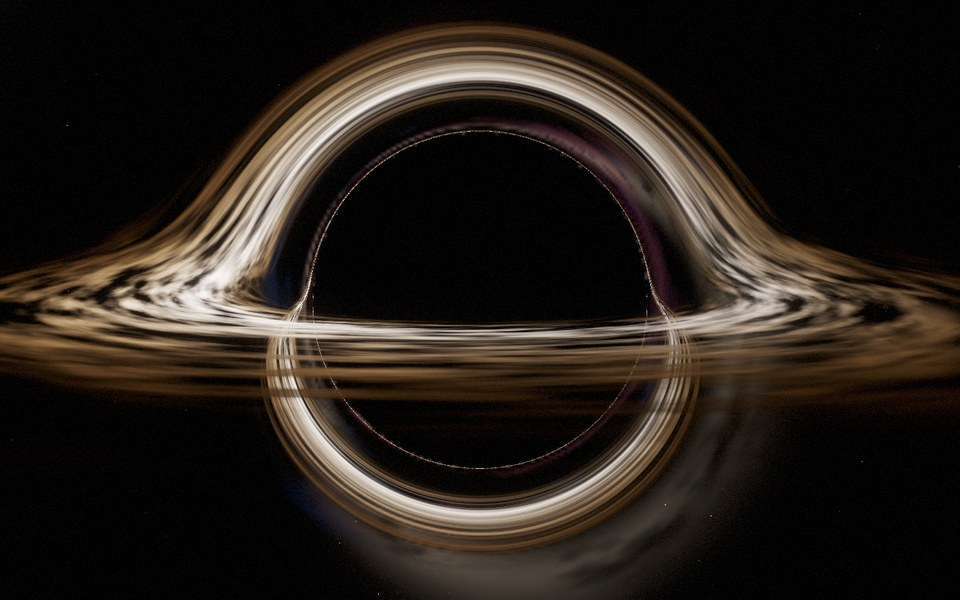
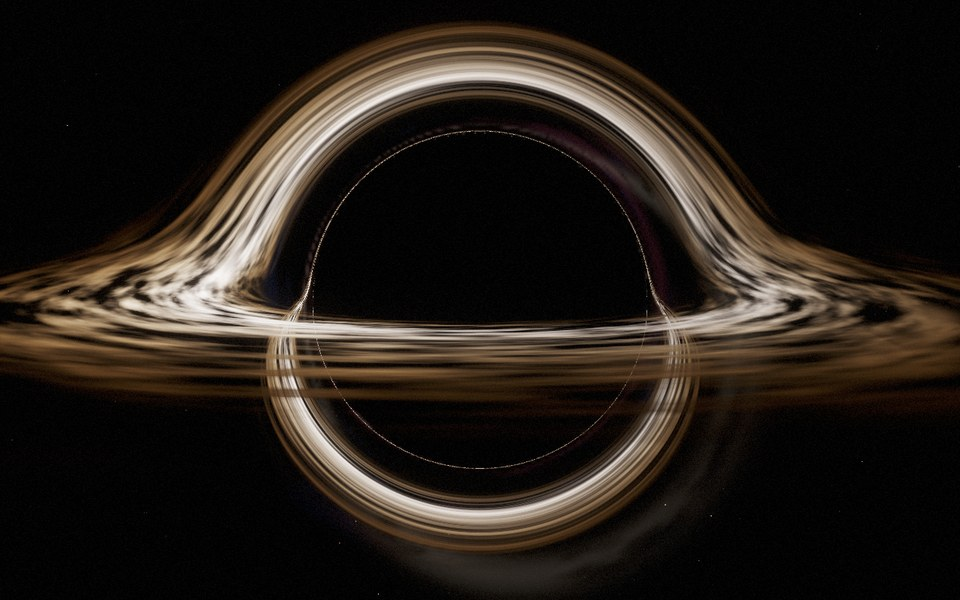
blackHole: fainter, narrower lensed Milky Way; refresh reference renders
Claude-Session: https://claude.ai/code/session_01YBqayaET7JSh2nx9HSb69L

diff --git a/crates/anikit-core/src/blackhole.rs b/crates/anikit-core/src/blackhole.rs
@@ -638,7 +638,7 @@ impl BlackHole {
                 let (slo, clo) = sincosf(lon);
                 let d = [cla * clo, cla * slo, sla];
                 let bl = dot(d, band_n);
-                let band = exp_neg(bl * bl * 40.0);
+                let band = exp_neg(bl * bl * 90.0);
                 let u = x as f32 / PANO_W as f32;
                 let v = y as f32 / PANO_H as f32;
                 let n1 = fbm(u * 16.0, v * 8.0, 16, 8, 5, seed ^ 0xbeef);
@@ -651,7 +651,7 @@ impl BlackHole {
                 // Fade structure out toward the poles (no equirect pinch).
                 let pole = smooth(0.82, 0.97, sla.abs());
                 let (glow, neb, neb2) = (glow * (1.0 - pole), neb * (1.0 - pole), neb2 * (1.0 - pole));
-                let k = 0.06;
+                let k = 0.03;
                 pano[y * PANO_W + x] = [
                     k * (glow * 1.0 + neb * 0.9 + neb2 * 0.2),
                     k * (glow * 0.85 + neb * 0.35 + neb2 * 0.35),
